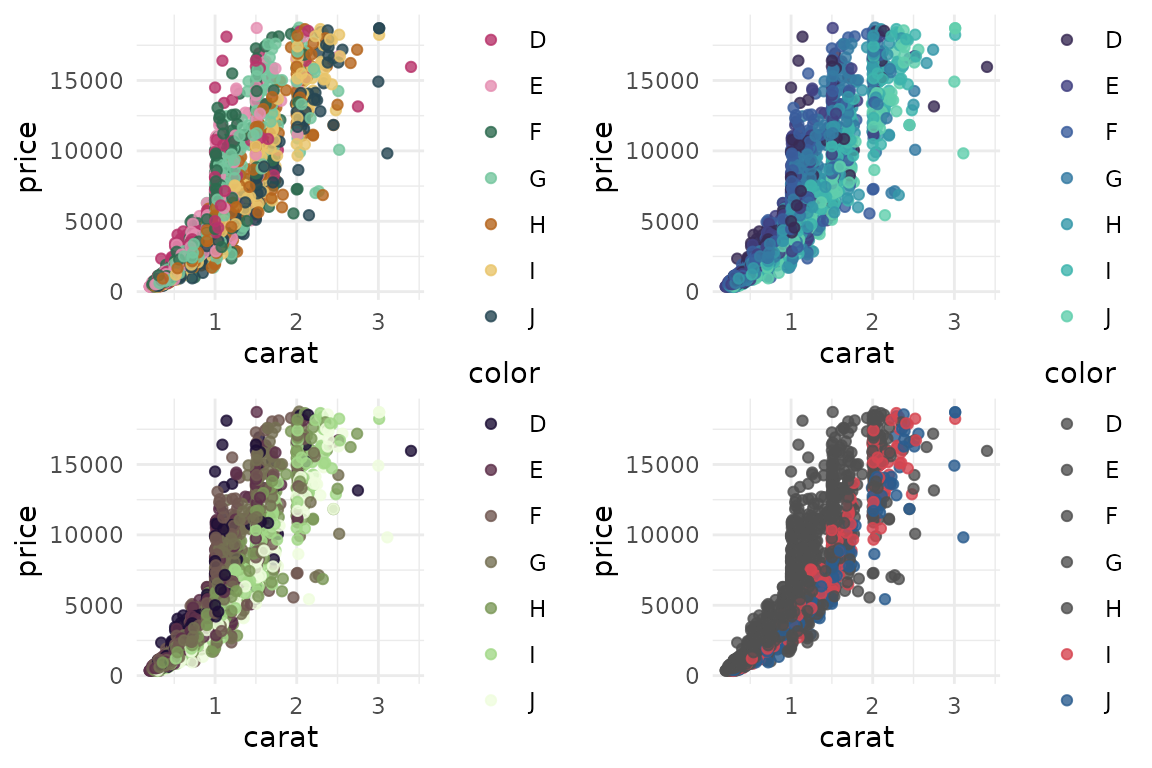
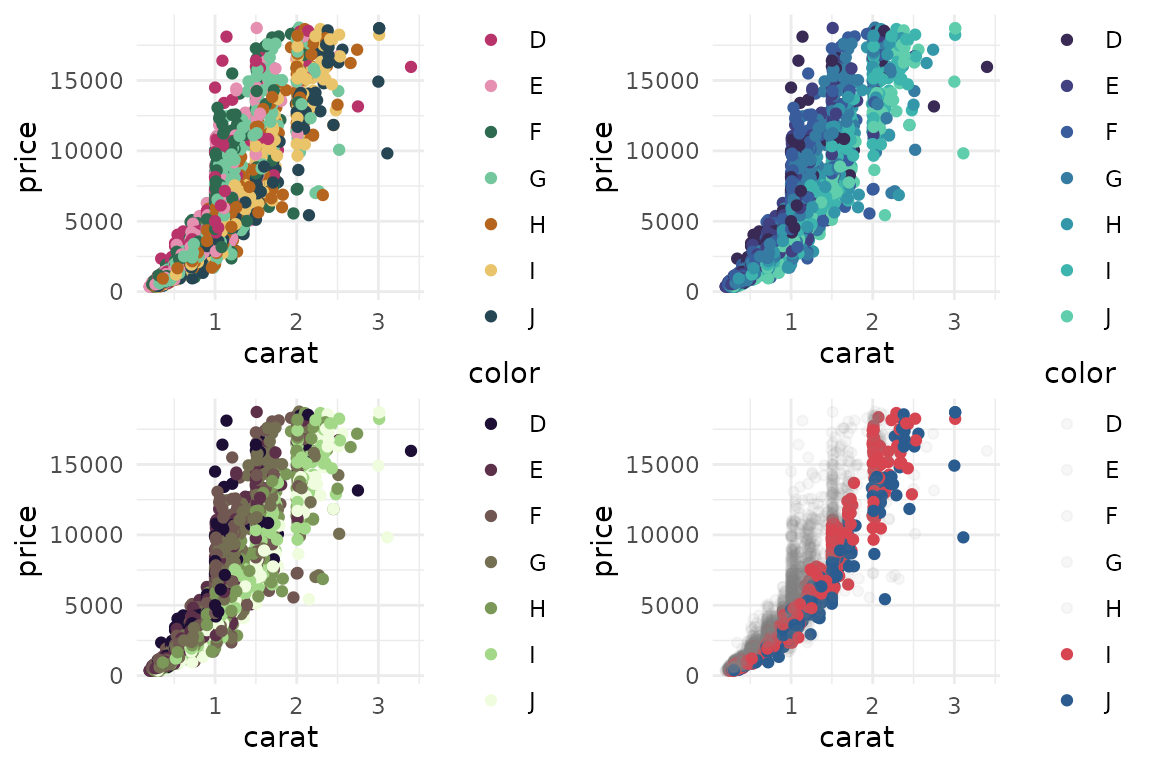
Deploying to gh-pages from @ ryo-asashi/colortheme@7c89fa79ad061726e57ae99604f50d6cf0af7894 🚀

diff --git a/articles/colortheme.html b/articles/colortheme.html
@@ -398,12 +398,12 @@ functions. These scales integrate your themes directly into the plot’s
 <span><span class="fu"><a href="https://rdrr.io/r/base/Random.html" class="external-link">set.seed</a></span><span class="op">(</span><span class="fl">42</span><span class="op">)</span></span>
 <span><span class="va">dataset</span> <span class="op">&lt;-</span> <span class="va">diamonds</span><span class="op">[</span><span class="fu"><a href="https://rdrr.io/r/base/sample.html" class="external-link">sample</a></span><span class="op">(</span><span class="fu"><a href="https://rdrr.io/r/base/nrow.html" class="external-link">nrow</a></span><span class="op">(</span><span class="va">diamonds</span><span class="op">)</span>, <span class="fl">5000L</span><span class="op">)</span>, <span class="op">]</span></span>
 <span></span>
-<span><span class="va">p</span> <span class="op">&lt;-</span> <span class="fu"><a href="https://ggplot2.tidyverse.org/reference/ggplot.html" class="external-link">ggplot</a></span><span class="op">(</span><span class="va">dataset</span><span class="op">)</span> <span class="op">+</span> <span class="fu"><a href="https://ggplot2.tidyverse.org/reference/geom_point.html" class="external-link">geom_point</a></span><span class="op">(</span><span class="fu"><a href="https://ggplot2.tidyverse.org/reference/aes.html" class="external-link">aes</a></span><span class="op">(</span><span class="va">carat</span>, <span class="va">price</span>, col <span class="op">=</span> <span class="va">color</span><span class="op">)</span>, alpha <span class="op">=</span> <span class="fl">0.8</span><span class="op">)</span></span>
+<span><span class="va">p</span> <span class="op">&lt;-</span> <span class="fu"><a href="https://ggplot2.tidyverse.org/reference/ggplot.html" class="external-link">ggplot</a></span><span class="op">(</span><span class="va">dataset</span><span class="op">)</span> <span class="op">+</span> <span class="fu"><a href="https://ggplot2.tidyverse.org/reference/geom_point.html" class="external-link">geom_point</a></span><span class="op">(</span><span class="fu"><a href="https://ggplot2.tidyverse.org/reference/aes.html" class="external-link">aes</a></span><span class="op">(</span><span class="va">carat</span>, <span class="va">price</span>, col <span class="op">=</span> <span class="va">color</span><span class="op">)</span><span class="op">)</span></span>
 <span><span class="fu"><a href="https://rdrr.io/pkg/gridExtra/man/arrangeGrob.html" class="external-link">grid.arrange</a></span><span class="op">(</span></span>
 <span>  <span class="va">p</span> <span class="op">+</span> <span class="fu"><a href="../reference/scale_color_theme.html">scale_color_theme</a></span><span class="op">(</span><span class="st">"shiki"</span><span class="op">)</span>,</span>
-<span>  <span class="va">p</span> <span class="op">+</span> <span class="fu"><a href="../reference/scale_color_theme.html">scale_color_theme</a></span><span class="op">(</span><span class="st">"viridisLite/mako?alpha=.5"</span>, discrete <span class="op">=</span> <span class="cn">TRUE</span><span class="op">)</span>,</span>
+<span>  <span class="va">p</span> <span class="op">+</span> <span class="fu"><a href="../reference/scale_color_theme.html">scale_color_theme</a></span><span class="op">(</span><span class="st">"viridisLite/mako"</span>, discrete <span class="op">=</span> <span class="cn">TRUE</span><span class="op">)</span>,</span>
 <span>  <span class="va">p</span> <span class="op">+</span> <span class="fu"><a href="../reference/scale_color_theme.html">scale_color_theme</a></span><span class="op">(</span><span class="st">"tokyo@qual"</span><span class="op">)</span>,</span>
-<span>  <span class="va">p</span> <span class="op">+</span> <span class="fu"><a href="../reference/scale_color_theme.html">scale_color_theme</a></span><span class="op">(</span><span class="st">"highlight?base='#50505010'&amp;which=6:7"</span><span class="op">)</span></span>
+<span>  <span class="va">p</span> <span class="op">+</span> <span class="fu"><a href="../reference/scale_color_theme.html">scale_color_theme</a></span><span class="op">(</span><span class="st">"highlight?base='#80808010'&amp;which=6:7"</span><span class="op">)</span></span>
 <span><span class="op">)</span></span></code></pre></div>
 <p><img src="colortheme_files/figure-html/unnamed-chunk-13-1.png" class="r-plt" alt="" width="576"></p>
 <div class="sourceCode" id="cb22"><pre class="downlit sourceCode r">
@@ -437,8 +437,8 @@ functions. These scales integrate your themes directly into the plot’s
 other packages being installed, so for full functionality, please ensure
 you have already installed the <strong>viridisLite</strong>,
 <strong>RColorBrewer</strong>, and <strong>khroma</strong> packages.</p>
-<div class="datatables html-widget html-fill-item" id="htmlwidget-5c48ef2937434d32a4b7" style="width:100%;height:auto;"></div>
-<script type="application/json" data-for="htmlwidget-5c48ef2937434d32a4b7">{"x":{"filter":"none","vertical":false,"data":[["ArmyRose","azurerose","bam","berlin","Berlin","bicolor","Blue-Red","Blue-Red 2","Blue-Red 3","Blue-Yellow 2","Blue-Yellow 3","BrBG","BrBG","broc","Broc","bukavu","BuRd","Cividis","cork","Cork","Cyan-Magenta","Earth","Fall","fes","Geyser","Green-Brown","Green-Orange","kasane","lisbon","Lisbon","managua","nightfall","oleron","PiYG","PiYG","PRGn","PRGn","PRGn","PuOr","PuOr","Purple-Brown","Purple-Green","RdBu","RdBu","RdGy","RdGy","RdYlBu","RdYlBu","RdYlGn","RdYlGn","Red-Green","roma","Roma","Spectral","Spectral","sunset","TealRose","Temps","tofino","Tofino","Tropic","vanimo","vik","Vik","Zissou 1","Accent","Accent","Alphabet","bright","Classic Tableau","Cold","dark","Dark 2","Dark 3","Dark2","discreterainbow","Dynamic","ggplot2","Harmonic","hcl","highcontrast","highlight","land","light","mediumcontrast","muted","Okabe-Ito","okabeito","okabeitoblack","Paired","Paired","pale","Pastel 1","Pastel 2","Pastel1","Pastel2","Polychrome 36","R3","R4","Set 1","Set 2","Set 3","Set1","Set2","Set3","shiki","soil","stratigraphy","Tableau 10","ukiyoe","vibrant","Warm","acton","ag_GrnYl","ag_Sunset","ai","bamako","bamO","batlow","Batlow","batlowK","batlowW","bilbao","Blue-Yellow","Blues","Blues","Blues 2","Blues 3","bluescale","BluGrn","BluYl","brocO","BrwnYl","buda","BuGn","BuGn","BuPu","BuPu","Burg","BurgYl","cividis","corkO","Dark Mint","davos","devon","Emrld","glasgow","GnBu","GnBu","grayC","Grays","grayscale","Green-Yellow","Greens","Greens","Greens 2","Greens 3","Greys","hawaii","Hawaii","Heat","Heat 2","imola","incandescent","inferno","Inferno","iridescent","lajolla","Lajolla","lapaz","Light Grays","lipari","Magenta","magma","mako","Mako","Mint","navia","naviaW","neon","nuuk","Oranges","Oranges","OrRd","OrRd","OrYel","oslo","Oslo","Peach","PinkYl","plasma","Plasma","PuBu","PuBu","PuBuGn","PuBuGn","PuRd","PuRd","Purp","Purple-Blue","Purple-Orange","Purple-Yellow","Purples","Purples","Purples 2","Purples 3","PurpOr","RdPu","RdPu","Red-Blue","Red-Purple","Red-Yellow","RedOr","Reds","Reds","Reds 2","Reds 3","rocket","Rocket","romaO","smoothrainbow","Sunset","SunsetDark","Teal","TealGrn","Terrain","Terrain 2","tokyo","turbo","turku","Turku","vikO","viridis","Viridis","YlGn","YlGn","YlGnBu","YlGnBu","YlOrBr","YlOrBr","YlOrBr","YlOrRd","YlOrRd"],["grDevices","colortheme","khroma","khroma","grDevices","colortheme","grDevices","grDevices","grDevices","grDevices","grDevices","grDevices","RColorBrewer","khroma","grDevices","khroma","khroma","grDevices","khroma","grDevices","grDevices","grDevices","grDevices","khroma","grDevices","grDevices","grDevices","colortheme","khroma","grDevices","khroma","khroma","khroma","grDevices","RColorBrewer","grDevices","khroma","RColorBrewer","grDevices","RColorBrewer","grDevices","grDevices","grDevices","RColorBrewer","grDevices","RColorBrewer","grDevices","RColorBrewer","grDevices","RColorBrewer","grDevices","khroma","grDevices","grDevices","RColorBrewer","khroma","grDevices","grDevices","khroma","grDevices","grDevices","khroma","khroma","grDevices","grDevices","grDevices","RColorBrewer","grDevices","khroma","grDevices","grDevices","khroma","grDevices","grDevices","RColorBrewer","khroma","grDevices","grDevices","grDevices","colortheme","khroma","colortheme","khroma","khroma","khroma","khroma","grDevices","khroma","khroma","grDevices","RColorBrewer","khroma","grDevices","grDevices","RColorBrewer","RColorBrewer","grDevices","grDevices","grDevices","grDevices","grDevices","grDevices","RColorBrewer","RColorBrewer","RColorBrewer","colortheme","khroma","khroma","grDevices","colortheme","khroma","grDevices","khroma","grDevices","grDevices","colortheme","khroma","khroma","khroma","grDevices","khroma","khroma","khroma","grDevices","grDevices","RColorBrewer","grDevices","grDevices","colortheme","grDevices","grDevices","khroma","grDevices","khroma","grDevices","RColorBrewer","grDevices","RColorBrewer","grDevices","grDevices","viridisLite","khroma","grDevices","khroma","khroma","grDevices","khroma","grDevices","RColorBrewer","khroma","grDevices","colortheme","grDevices","grDevices","RColorBrewer","grDevices","grDevices","RColorBrewer","khroma","grDevices","grDevices","grDevices","khroma","khroma","viridisLite","grDevices","khroma","khroma","grDevices","khroma","grDevices","khroma","grDevices","viridisLite","viridisLite","grDevices","grDevices","khroma","khroma","colortheme","khroma","grDevices","RColorBrewer","grDevices","RColorBrewer","grDevices","khroma","grDevices","grDevices","grDevices","viridisLite","grDevices","grDevices","RColorBrewer","grDevices","RColorBrewer","grDevices","RColorBrewer","grDevices","grDevices","grDevices","grDevices","grDevices","RColorBrewer","grDevices","grDevices","grDevices","grDevices","RColorBrewer","grDevices","grDevices","grDevices","grDevices","grDevices","RColorBrewer","grDevices","grDevices","viridisLite","grDevices","khroma","khroma","grDevices","grDevices","grDevices","grDevices","grDevices","grDevices","khroma","viridisLite","khroma","grDevices","khroma","viridisLite","grDevices","grDevices","RColorBrewer","grDevices","RColorBrewer","grDevices","khroma","RColorBrewer","grDevices","RColorBrewer"],["diverging","diverging","diverging","diverging","diverging","diverging","diverging","diverging","diverging","diverging","diverging","diverging","diverging","diverging","diverging","diverging","diverging","diverging","diverging","diverging","diverging","diverging","diverging","diverging","diverging","diverging","diverging","diverging","diverging","diverging","diverging","diverging","diverging","diverging","diverging","diverging","diverging","diverging","diverging","diverging","diverging","diverging","diverging","diverging","diverging","diverging","diverging","diverging","diverging","diverging","diverging","diverging","diverging","diverging","diverging","diverging","diverging","diverging","diverging","diverging","diverging","diverging","diverging","diverging","diverging","qualitative","qualitative","qualitative","qualitative","qualitative","qualitative","qualitative","qualitative","qualitative","qualitative","qualitative","qualitative","qualitative","qualitative","qualitative","qualitative","qualitative","qualitative","qualitative","qualitative","qualitative","qualitative","qualitative","qualitative","qualitative","qualitative","qualitative","qualitative","qualitative","qualitative","qualitative","qualitative","qualitative","qualitative","qualitative","qualitative","qualitative","qualitative","qualitative","qualitative","qualitative","qualitative","qualitative","qualitative","qualitative","qualitative","qualitative","sequential","sequential","sequential","sequential","sequential","sequential","sequential","sequential","sequential","sequential","sequential","sequential","sequential","sequential","sequential","sequential","sequential","sequential","sequential","sequential","sequential","sequential","sequential","sequential","sequential","sequential","sequential","sequential","sequential","sequential","sequential","sequential","sequential","sequential","sequential","sequential","sequential","sequential","sequential","sequential","sequential","sequential","sequential","sequential","sequential","sequential","sequential","sequential","sequential","sequential","sequential","sequential","sequential","sequential","sequential","sequential","sequential","sequential","sequential","sequential","sequential","sequential","sequential","sequential","sequential","sequential","sequential","sequential","sequential","sequential","sequential","sequential","sequential","sequential","sequential","sequential","sequential","sequential","sequential","sequential","sequential","sequential","sequential","sequential","sequential","sequential","sequential","sequential","sequential","sequential","sequential","sequential","sequential","sequential","sequential","sequential","sequential","sequential","sequential","sequential","sequential","sequential","sequential","sequential","sequential","sequential","sequential","sequential","sequential","sequential","sequential","sequential","sequential","sequential","sequential","sequential","sequential","sequential","sequential","sequential","sequential","sequential","sequential","sequential","sequential","sequential","sequential","sequential","sequential","sequential","sequential"]],"container":"<table class=\"cell-border stripe hover\">\n  <thead>\n    <tr>\n      <th>name<\/th>\n      <th>source<\/th>\n      <th>type<\/th>\n    <\/tr>\n  <\/thead>\n<\/table>","options":{"pageLength":10,"lengthMenu":[10,20,50,100],"dom":"Btip","columnDefs":[{"name":"name","targets":0},{"name":"source","targets":1},{"name":"type","targets":2}],"order":[],"autoWidth":false,"orderClasses":false}},"evals":[],"jsHooks":[]}</script><div class="section level3">
+<div class="datatables html-widget html-fill-item" id="htmlwidget-ac96cb3ee4656e2e9ec3" style="width:100%;height:auto;"></div>
+<script type="application/json" data-for="htmlwidget-ac96cb3ee4656e2e9ec3">{"x":{"filter":"none","vertical":false,"data":[["ArmyRose","azurerose","bam","berlin","Berlin","bicolor","Blue-Red","Blue-Red 2","Blue-Red 3","Blue-Yellow 2","Blue-Yellow 3","BrBG","BrBG","broc","Broc","bukavu","BuRd","Cividis","cork","Cork","Cyan-Magenta","Earth","Fall","fes","Geyser","Green-Brown","Green-Orange","kasane","lisbon","Lisbon","managua","nightfall","oleron","PiYG","PiYG","PRGn","PRGn","PRGn","PuOr","PuOr","Purple-Brown","Purple-Green","RdBu","RdBu","RdGy","RdGy","RdYlBu","RdYlBu","RdYlGn","RdYlGn","Red-Green","roma","Roma","Spectral","Spectral","sunset","TealRose","Temps","tofino","Tofino","Tropic","vanimo","vik","Vik","Zissou 1","Accent","Accent","Alphabet","bright","Classic Tableau","Cold","dark","Dark 2","Dark 3","Dark2","discreterainbow","Dynamic","ggplot2","Harmonic","hcl","highcontrast","highlight","land","light","mediumcontrast","muted","Okabe-Ito","okabeito","okabeitoblack","Paired","Paired","pale","Pastel 1","Pastel 2","Pastel1","Pastel2","Polychrome 36","R3","R4","Set 1","Set 2","Set 3","Set1","Set2","Set3","shiki","soil","stratigraphy","Tableau 10","ukiyoe","vibrant","Warm","acton","ag_GrnYl","ag_Sunset","ai","bamako","bamO","batlow","Batlow","batlowK","batlowW","bilbao","Blue-Yellow","Blues","Blues","Blues 2","Blues 3","bluescale","BluGrn","BluYl","brocO","BrwnYl","buda","BuGn","BuGn","BuPu","BuPu","Burg","BurgYl","cividis","corkO","Dark Mint","davos","devon","Emrld","glasgow","GnBu","GnBu","grayC","Grays","grayscale","Green-Yellow","Greens","Greens","Greens 2","Greens 3","Greys","hawaii","Hawaii","Heat","Heat 2","imola","incandescent","inferno","Inferno","iridescent","lajolla","Lajolla","lapaz","Light Grays","lipari","Magenta","magma","mako","Mako","Mint","navia","naviaW","neon","nuuk","Oranges","Oranges","OrRd","OrRd","OrYel","oslo","Oslo","Peach","PinkYl","plasma","Plasma","PuBu","PuBu","PuBuGn","PuBuGn","PuRd","PuRd","Purp","Purple-Blue","Purple-Orange","Purple-Yellow","Purples","Purples","Purples 2","Purples 3","PurpOr","RdPu","RdPu","Red-Blue","Red-Purple","Red-Yellow","RedOr","Reds","Reds","Reds 2","Reds 3","rocket","Rocket","romaO","smoothrainbow","Sunset","SunsetDark","Teal","TealGrn","Terrain","Terrain 2","tokyo","turbo","turku","Turku","vikO","viridis","Viridis","YlGn","YlGn","YlGnBu","YlGnBu","YlOrBr","YlOrBr","YlOrBr","YlOrRd","YlOrRd"],["grDevices","colortheme","khroma","khroma","grDevices","colortheme","grDevices","grDevices","grDevices","grDevices","grDevices","grDevices","RColorBrewer","khroma","grDevices","khroma","khroma","grDevices","khroma","grDevices","grDevices","grDevices","grDevices","khroma","grDevices","grDevices","grDevices","colortheme","khroma","grDevices","khroma","khroma","khroma","grDevices","RColorBrewer","grDevices","khroma","RColorBrewer","grDevices","RColorBrewer","grDevices","grDevices","grDevices","RColorBrewer","grDevices","RColorBrewer","grDevices","RColorBrewer","grDevices","RColorBrewer","grDevices","khroma","grDevices","grDevices","RColorBrewer","khroma","grDevices","grDevices","khroma","grDevices","grDevices","khroma","khroma","grDevices","grDevices","grDevices","RColorBrewer","grDevices","khroma","grDevices","grDevices","khroma","grDevices","grDevices","RColorBrewer","khroma","grDevices","grDevices","grDevices","colortheme","khroma","colortheme","khroma","khroma","khroma","khroma","grDevices","khroma","khroma","grDevices","RColorBrewer","khroma","grDevices","grDevices","RColorBrewer","RColorBrewer","grDevices","grDevices","grDevices","grDevices","grDevices","grDevices","RColorBrewer","RColorBrewer","RColorBrewer","colortheme","khroma","khroma","grDevices","colortheme","khroma","grDevices","khroma","grDevices","grDevices","colortheme","khroma","khroma","khroma","grDevices","khroma","khroma","khroma","grDevices","grDevices","RColorBrewer","grDevices","grDevices","colortheme","grDevices","grDevices","khroma","grDevices","khroma","grDevices","RColorBrewer","grDevices","RColorBrewer","grDevices","grDevices","viridisLite","khroma","grDevices","khroma","khroma","grDevices","khroma","grDevices","RColorBrewer","khroma","grDevices","colortheme","grDevices","grDevices","RColorBrewer","grDevices","grDevices","RColorBrewer","khroma","grDevices","grDevices","grDevices","khroma","khroma","viridisLite","grDevices","khroma","khroma","grDevices","khroma","grDevices","khroma","grDevices","viridisLite","viridisLite","grDevices","grDevices","khroma","khroma","colortheme","khroma","grDevices","RColorBrewer","grDevices","RColorBrewer","grDevices","khroma","grDevices","grDevices","grDevices","viridisLite","grDevices","grDevices","RColorBrewer","grDevices","RColorBrewer","grDevices","RColorBrewer","grDevices","grDevices","grDevices","grDevices","grDevices","RColorBrewer","grDevices","grDevices","grDevices","grDevices","RColorBrewer","grDevices","grDevices","grDevices","grDevices","grDevices","RColorBrewer","grDevices","grDevices","viridisLite","grDevices","khroma","khroma","grDevices","grDevices","grDevices","grDevices","grDevices","grDevices","khroma","viridisLite","khroma","grDevices","khroma","viridisLite","grDevices","grDevices","RColorBrewer","grDevices","RColorBrewer","grDevices","khroma","RColorBrewer","grDevices","RColorBrewer"],["diverging","diverging","diverging","diverging","diverging","diverging","diverging","diverging","diverging","diverging","diverging","diverging","diverging","diverging","diverging","diverging","diverging","diverging","diverging","diverging","diverging","diverging","diverging","diverging","diverging","diverging","diverging","diverging","diverging","diverging","diverging","diverging","diverging","diverging","diverging","diverging","diverging","diverging","diverging","diverging","diverging","diverging","diverging","diverging","diverging","diverging","diverging","diverging","diverging","diverging","diverging","diverging","diverging","diverging","diverging","diverging","diverging","diverging","diverging","diverging","diverging","diverging","diverging","diverging","diverging","qualitative","qualitative","qualitative","qualitative","qualitative","qualitative","qualitative","qualitative","qualitative","qualitative","qualitative","qualitative","qualitative","qualitative","qualitative","qualitative","qualitative","qualitative","qualitative","qualitative","qualitative","qualitative","qualitative","qualitative","qualitative","qualitative","qualitative","qualitative","qualitative","qualitative","qualitative","qualitative","qualitative","qualitative","qualitative","qualitative","qualitative","qualitative","qualitative","qualitative","qualitative","qualitative","qualitative","qualitative","qualitative","qualitative","qualitative","sequential","sequential","sequential","sequential","sequential","sequential","sequential","sequential","sequential","sequential","sequential","sequential","sequential","sequential","sequential","sequential","sequential","sequential","sequential","sequential","sequential","sequential","sequential","sequential","sequential","sequential","sequential","sequential","sequential","sequential","sequential","sequential","sequential","sequential","sequential","sequential","sequential","sequential","sequential","sequential","sequential","sequential","sequential","sequential","sequential","sequential","sequential","sequential","sequential","sequential","sequential","sequential","sequential","sequential","sequential","sequential","sequential","sequential","sequential","sequential","sequential","sequential","sequential","sequential","sequential","sequential","sequential","sequential","sequential","sequential","sequential","sequential","sequential","sequential","sequential","sequential","sequential","sequential","sequential","sequential","sequential","sequential","sequential","sequential","sequential","sequential","sequential","sequential","sequential","sequential","sequential","sequential","sequential","sequential","sequential","sequential","sequential","sequential","sequential","sequential","sequential","sequential","sequential","sequential","sequential","sequential","sequential","sequential","sequential","sequential","sequential","sequential","sequential","sequential","sequential","sequential","sequential","sequential","sequential","sequential","sequential","sequential","sequential","sequential","sequential","sequential","sequential","sequential","sequential","sequential","sequential"]],"container":"<table class=\"cell-border stripe hover\">\n  <thead>\n    <tr>\n      <th>name<\/th>\n      <th>source<\/th>\n      <th>type<\/th>\n    <\/tr>\n  <\/thead>\n<\/table>","options":{"pageLength":10,"lengthMenu":[10,20,50,100],"dom":"Btip","columnDefs":[{"name":"name","targets":0},{"name":"source","targets":1},{"name":"type","targets":2}],"order":[],"autoWidth":false,"orderClasses":false}},"evals":[],"jsHooks":[]}</script><div class="section level3">
 <h3 id="diverging-color-themes">Diverging Color Themes<a class="anchor" aria-label="anchor" href="#diverging-color-themes"></a>
 </h3>
 <p><img src="colortheme_files/figure-html/diverging_gallery-1.png" class="r-plt" alt="" width="576"><img src="colortheme_files/figure-html/diverging_gallery-2.png" class="r-plt" alt="" width="576"><img src="colortheme_files/figure-html/diverging_gallery-3.png" class="r-plt" alt="" width="576"><img src="colortheme_files/figure-html/diverging_gallery-4.png" class="r-plt" alt="" width="576"><img src="colortheme_files/figure-html/diverging_gallery-5.png" class="r-plt" alt="" width="576"><img src="colortheme_files/figure-html/diverging_gallery-6.png" class="r-plt" alt="" width="576"><img src="colortheme_files/figure-html/diverging_gallery-7.png" class="r-plt" alt="" width="576"><img src="colortheme_files/figure-html/diverging_gallery-8.png" class="r-plt" alt="" width="576"><img src="colortheme_files/figure-html/diverging_gallery-9.png" class="r-plt" alt="" width="576"><img src="colortheme_files/figure-html/diverging_gallery-10.png" class="r-plt" alt="" width="576"><img src="colortheme_files/figure-html/diverging_gallery-11.png" class="r-plt" alt="" width="576"><img src="colortheme_files/figure-html/diverging_gallery-12.png" class="r-plt" alt="" width="576"><img src="colortheme_files/figure-html/diverging_gallery-13.png" class="r-plt" alt="" width="576"><img src="colortheme_files/figure-html/diverging_gallery-14.png" class="r-plt" alt="" width="576"><img src="colortheme_files/figure-html/diverging_gallery-15.png" class="r-plt" alt="" width="576"><img src="colortheme_files/figure-html/diverging_gallery-16.png" class="r-plt" alt="" width="576"><img src="colortheme_files/figure-html/diverging_gallery-17.png" class="r-plt" alt="" width="576"></p>

diff --git a/articles/colortheme.md b/articles/colortheme.md
@@ -316,12 +316,12 @@ theme_set(theme_minimal())
 set.seed(42)
 dataset <- diamonds[sample(nrow(diamonds), 5000L), ]
 
-p <- ggplot(dataset) + geom_point(aes(carat, price, col = color), alpha = 0.8)
+p <- ggplot(dataset) + geom_point(aes(carat, price, col = color))
 grid.arrange(
   p + scale_color_theme("shiki"),
-  p + scale_color_theme("viridisLite/mako?alpha=.5", discrete = TRUE),
+  p + scale_color_theme("viridisLite/mako", discrete = TRUE),
   p + scale_color_theme("tokyo@qual"),
-  p + scale_color_theme("highlight?base='#50505010'&which=6:7")
+  p + scale_color_theme("highlight?base='#80808010'&which=6:7")
 )
 ```
 
